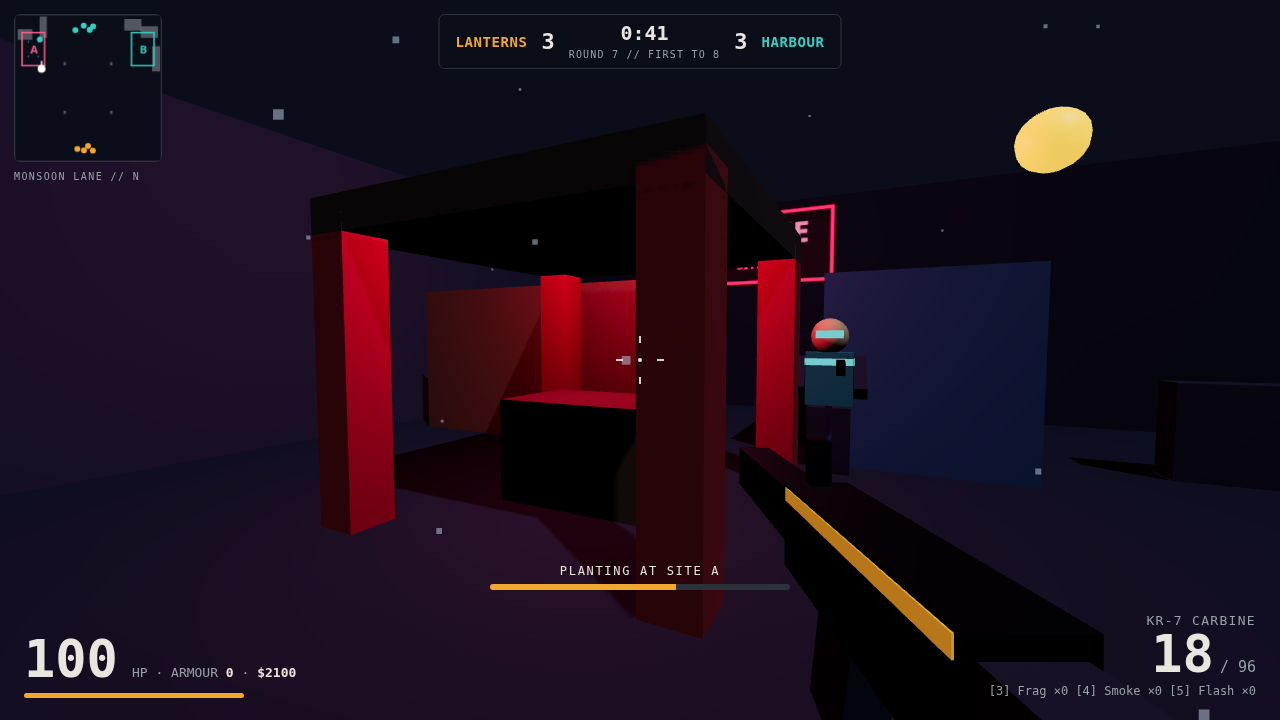
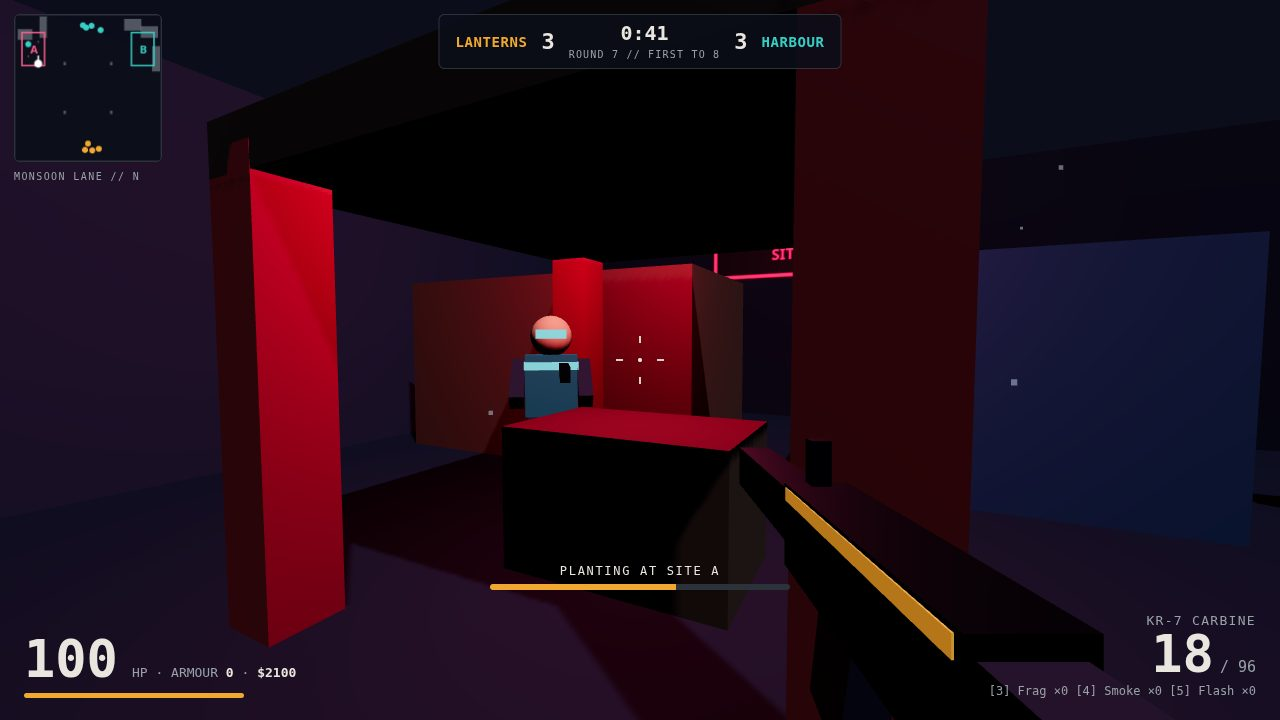
Monsoon Lane v2: fix the round flow found by end-to-end play-testing
- Bots no longer fight during the buy phase, and the vision scan no
  longer treats the player as a target for his own teammates (the team
  used to kill its bomb carrier in the spawn before the round began)
- Overhead boxes (market roof, awnings, shrine roof) no longer act as
  ground-level walls: mid is walkable again and the site A bomb can
  actually be reached and defused
- Waypoints moved onto open ground (siteA, bMid, aHold1, aHold2,
  bHold2 sat inside colliders) and midHold/midHold2 got inbound edges
- Attackers now fetch a dropped bomb instead of pushing a site past it
- Weapon switching and round survival keep exact per-weapon ammo;
  match restart resets money and K/D; nobody shares the player's spawn
- Bots spawn facing the sites; strafing respects collision; a carrier
  with no site picked yet no longer crashes the plant channel
- Screenshots re-rendered from the fixed build (plant shot now stages
  inside site A, combat shot faces the duel)

diff --git a/game/src/bots.js b/game/src/bots.js
@@ -36,7 +36,9 @@ export function createBot(team, name, spawn, isCarrier, rng) {
   const actor = {
     id, name, team, isPlayer: false, isBot: true,
     pos: new THREE.Vector3(spawn.x, 0, spawn.z),
-    yaw: team === 'lanterns' ? 0 : Math.PI, pitch: 0,
+    // Bot yaw follows atan2(dx, dz): PI faces -Z (north), 0 faces +Z (south).
+    // Each team spawns facing the sites, not its own rear wall.
+    yaw: team === 'lanterns' ? Math.PI : 0, pitch: 0,
     hp: 100, armor: 0, alive: true,
     weapon: 'kr7', mag: WEAPONS.kr7.mag, reserve: WEAPONS.kr7.reserve,
     grenades: { frag: 0, smoke: 0, flash: 0 },
@@ -151,41 +153,47 @@ export function stepBots(bots, ctx, dt) {
       ai.thinkAt = now + 0.12 + rng() * 0.08;
       think(bot, ctx);
     }
-    // Vision: scan the player and the enemy bots.
-    const enemies = [player, ...bots.filter((b) => b.team !== bot.team && b !== bot)];
-    let seen = null;
-    let seenD = Infinity;
-    for (const e of enemies) {
-      if (!e.alive) continue;
-      if (canSee(bot, e, map, smokeClouds, now)) {
-        const d = Math.hypot(e.pos.x - bot.pos.x, e.pos.z - bot.pos.z);
-        if (d < seenD) { seenD = d; seen = e; }
+    // Vision, hearing and acting happen only while the round is live: in the
+    // buy phase the teams are still in their spawns and nobody may fight.
+    // The player is a target only for bots on the other team — the scan used
+    // to include the player unconditionally, so teammates shot their own
+    // bomb carrier in the spawn.
+    if (state.phase === 'live') {
+      const enemies = [player, ...bots].filter((a) => a.team !== bot.team && a !== bot);
+      let seen = null;
+      let seenD = Infinity;
+      for (const e of enemies) {
+        if (!e.alive) continue;
+        if (canSee(bot, e, map, smokeClouds, now)) {
+          const d = Math.hypot(e.pos.x - bot.pos.x, e.pos.z - bot.pos.z);
+          if (d < seenD) { seenD = d; seen = e; }
+        }
       }
-    }
-    if (seen) {
-      if (!ai.target) ai.reactAt = now + 0.28 + rng() * 0.25;
-      ai.target = seen;
-      ai.lastSeen = { x: seen.pos.x, z: seen.pos.z, at: now };
-    } else if (ai.target && now - (ai.lastSeen?.at ?? 0) > 2.5) {
-      ai.target = null;
-    }
-    // Hearing: recent gunfire pulls bots toward it.
-    if (!ai.target && state.lastShotAt && now - state.lastShotAt.at < 1.2) {
-      const d = Math.hypot(state.lastShotAt.x - bot.pos.x, state.lastShotAt.z - bot.pos.z);
-      if (d < 26 && ai.role === 'defend') {
-        ai.hold = { x: state.lastShotAt.x, z: state.lastShotAt.z };
+      if (seen) {
+        if (!ai.target) ai.reactAt = now + 0.28 + rng() * 0.25;
+        ai.target = seen;
+        ai.lastSeen = { x: seen.pos.x, z: seen.pos.z, at: now };
+      } else if (ai.target && (!ai.target.alive || now - (ai.lastSeen?.at ?? 0) > 2.5)) {
+        ai.target = null;
       }
-    }
-    // Act.
-    if (ai.target && now >= ai.reactAt) {
-      engage(bot, ai.target, ctx, dt, now);
-    } else if (ai.defuseProgress > 0 || ai.plantProgress > 0) {
-      // channeling: stand still
-    } else if (ai.path.length) {
-      const wp = ai.path[0];
-      if (moveToward(bot, wp.x, wp.z, dt, map)) ai.path.shift();
-    } else if (ai.hold) {
-      moveToward(bot, ai.hold.x, ai.hold.z, dt, map, SPEED * 0.6);
+      // Hearing: recent gunfire pulls bots toward it.
+      if (!ai.target && state.lastShotAt && now - state.lastShotAt.at < 1.2) {
+        const d = Math.hypot(state.lastShotAt.x - bot.pos.x, state.lastShotAt.z - bot.pos.z);
+        if (d < 26 && ai.role === 'defend') {
+          ai.hold = { x: state.lastShotAt.x, z: state.lastShotAt.z };
+        }
+      }
+      // Act.
+      if (ai.target && now >= ai.reactAt) {
+        engage(bot, ai.target, ctx, dt, now);
+      } else if (ai.defuseProgress > 0 || ai.plantProgress > 0) {
+        // channeling: stand still
+      } else if (ai.path.length) {
+        const wp = ai.path[0];
+        if (moveToward(bot, wp.x, wp.z, dt, map)) ai.path.shift();
+      } else if (ai.hold) {
+        moveToward(bot, ai.hold.x, ai.hold.z, dt, map, SPEED * 0.6);
+      }
     }
     // Objective channels.
     channelObjective(bot, ctx, dt, now);
@@ -202,6 +210,22 @@ function think(bot, ctx) {
   if (state.phase !== 'live') return;
   if (ai.role === 'attack') {
     if (!ai.site) ai.site = pickSite(rng);
+    if (state.bomb.state === 'carried') ai.hold = null; // no standing orders while the charge moves
+    if (state.bomb.state === 'dropped' && state.bomb.pos) {
+      // The charge is on the ground: fetch it before pushing a site. The
+      // fetch preempts a route planned before the drop (the hold marks a
+      // bot as already fetching; others turn around at once). A bot already
+      // standing by the charge's nearest waypoint is not re-routed to that
+      // waypoint — it walks the last stretch straight to the charge.
+      const dBomb = Math.hypot(bot.pos.x - state.bomb.pos.x, bot.pos.z - state.bomb.pos.z);
+      const fetching = ai.hold && ai.hold.x === state.bomb.pos.x && ai.hold.z === state.bomb.pos.z;
+      const wpId = nearestWaypoint(state.bomb.pos.x, state.bomb.pos.z);
+      const wp = map.waypoints[wpId];
+      const dWp = Math.hypot(bot.pos.x - wp.x, bot.pos.z - wp.z);
+      if ((!fetching || !ai.path.length) && dBomb > 2 && dWp > 1.2) planRoute(bot, wpId, map);
+      ai.hold = { x: state.bomb.pos.x, z: state.bomb.pos.z };
+      return;
+    }
     const bombPlanted = state.bomb.state === 'planted';
     if (bombPlanted) {
       // After the plant, attackers guard the bomb.
@@ -237,15 +261,17 @@ function think(bot, ctx) {
 }
 
 function engage(bot, target, ctx, dt, now) {
-  const { rng, onBotShot } = ctx;
+  const { rng, onBotShot, map } = ctx;
   const dx = target.pos.x - bot.pos.x;
   const dz = target.pos.z - bot.pos.z;
   const dist = Math.hypot(dx, dz) || 1;
   bot.yaw = Math.atan2(dx, dz);
-  // Strafe a little while firing so the fight moves.
+  // Strafe a little while firing so the fight moves — through collision, so
+  // a strafing bot cannot slide through crates and walls.
   const strafe = Math.sin(now * 1.7 + bot.id.charCodeAt(4)) * 0.5;
   bot.pos.x += Math.cos(bot.yaw) * strafe * dt * 1.4;
   bot.pos.z -= Math.sin(bot.yaw) * strafe * dt * 1.4;
+  resolveMove(bot.pos, 0.38, map.moveBoxes);
   if (now < bot.ai.nextShotAt) return;
   if (bot.ai.burstLeft <= 0) {
     bot.ai.burstLeft = 3 + Math.floor(rng() * 3);
@@ -269,7 +295,8 @@ function channelObjective(bot, ctx, dt, now) {
   // Attackers plant.
   if (ai.carrier && state.bomb.state === 'carried' && state.bomb.carrier === bot.id) {
     const siteId = ai.site;
-    const s = map.sites[siteId];
+    const s = siteId ? map.sites[siteId] : null;
+    if (!s) return; // no site picked yet — the next think assigns one
     const d = Math.hypot(bot.pos.x - s.x, bot.pos.z - s.z);
     if (d < s.r && !ai.target) {
       if (ai.plantProgress === 0) onPlantStart(bot, siteId);

diff --git a/game/src/main.js b/game/src/main.js
@@ -122,6 +122,18 @@ document.addEventListener('keydown', (e) => {
 });
 document.addEventListener('keyup', (e) => keys.delete(e.code));
 
+// Ammunition is kept per weapon: switching away and back restores the exact
+// mag and reserve the weapon had, so a weapon switch is never a free reload.
+const ammoStore = { p9: null, kr7: null, vulture: null, osprey: null };
+function stashAmmo() {
+  ammoStore[playerActor.weapon] = { mag: playerActor.mag, reserve: playerActor.reserve };
+}
+function drawAmmo(key) {
+  const s = ammoStore[key];
+  if (s) { playerActor.mag = s.mag; playerActor.reserve = s.reserve; }
+  else { playerActor.mag = WEAPONS[key].mag; playerActor.reserve = WEAPONS[key].reserve; }
+}
+
 function currentPrimary() {
   return playerActor.ownedPrimary || 'p9';
 }
@@ -138,6 +150,7 @@ function startMatch(team) {
   playerActor.money = ECONOMY.start;
   playerActor.kills = 0;
   playerActor.deaths = 0;
+  playerActor.survived = false;
   startRound();
 }
 
@@ -145,6 +158,12 @@ function restartMatch() {
   state.scores = { lanterns: 0, harbour: 0 };
   state.round = 1;
   state.matchWinner = null;
+  // A fresh match starts on a fresh economy and a clean scorecard, exactly
+  // like startMatch — the old version kept the end-of-match money and K/D.
+  playerActor.money = ECONOMY.start;
+  playerActor.kills = 0;
+  playerActor.deaths = 0;
+  playerActor.survived = false;
   startRound();
 }
 
@@ -162,16 +181,27 @@ function startRound() {
   playerActor.pos = player.state.pos;
   playerActor.hp = 100;
   playerActor.alive = true;
-  if (!playerActor.survived) { playerActor.weapon = 'p9'; playerActor.armor = 0; playerActor.ownedPrimary = null; }
-  playerActor.mag = WEAPONS[playerActor.weapon].mag;
-  playerActor.reserve = WEAPONS[playerActor.weapon].reserve;
+  if (!playerActor.survived) {
+    // The dead start over: sidearm, no armour, full fresh ammunition.
+    playerActor.weapon = 'p9'; playerActor.armor = 0; playerActor.ownedPrimary = null;
+    playerActor.mag = WEAPONS.p9.mag;
+    playerActor.reserve = WEAPONS.p9.reserve;
+    for (const k of Object.keys(ammoStore)) ammoStore[k] = null;
+  }
+  // Survivors keep their weapon, armour and the exact ammunition they
+  // ended the round with — no free refill between rounds.
   playerActor.grenades = { frag: 0, smoke: 0, flash: 0 };
   playerActor.survived = false;
   const enemyTeam = state.playerTeam === 'lanterns' ? 'harbour' : 'lanterns';
-  bots.forEach((b, i) => {
-    const s = map.spawns[b.team][i % 5];
+  const seat = { lanterns: 0, harbour: 0 };
+  bots.forEach((b) => {
+    // Seat each team in its own spawn slots; the player's team leaves slot 0
+    // for the player (the old indexing put a teammate on the player's spot).
+    const idx = b.team === state.playerTeam ? seat[b.team] + 1 : seat[b.team];
+    seat[b.team] += 1;
+    const s = map.spawns[b.team][idx % 5];
     b.pos.set(s.x, 0, s.z);
-    b.yaw = b.team === 'lanterns' ? 0 : Math.PI;
+    b.yaw = b.team === 'lanterns' ? Math.PI : 0;
     b.hp = 100;
     b.alive = true;
     b.mesh.visible = true;
@@ -179,6 +209,7 @@ function startRound() {
     b.ai.hold = null;
     b.ai.target = null;
     b.ai.site = null;
+    b.ai.carrier = false;
     b.ai.plantProgress = 0;
     b.ai.defuseProgress = 0;
     b.ai.blindUntil = 0;
@@ -254,8 +285,10 @@ function buyItem(key) {
   } else if (WEAPONS[key]) {
     if (m >= WEAPONS[key].price) {
       playerActor.money -= WEAPONS[key].price;
+      stashAmmo();
       playerActor.weapon = key;
       playerActor.ownedPrimary = key;
+      ammoStore[key] = { mag: WEAPONS[key].mag, reserve: WEAPONS[key].reserve };
       playerActor.mag = WEAPONS[key].mag;
       playerActor.reserve = WEAPONS[key].reserve;
       audio.click();
@@ -274,9 +307,11 @@ function toggleBuy() {
 
 function selectWeapon(key) {
   if (key === 'p9' || (playerActor.ownedPrimary && key === playerActor.ownedPrimary)) {
-    playerActor.weapon = key;
-    playerActor.mag = WEAPONS[key].mag;
-    playerActor.reserve = WEAPONS[key].reserve;
+    if (key !== playerActor.weapon) {
+      stashAmmo();
+      playerActor.weapon = key;
+      drawAmmo(key);
+    }
     syncHud();
   }
 }
@@ -312,6 +347,8 @@ function shootPlayer() {
   camera.getWorldDirection(shootDir);
   const pellets = w.pellets || 1;
   let anyHit = false;
+  // The raycast target list is built once per shot, not once per pellet.
+  const targets = [...map.shootables, ...bots.flatMap((b) => b.alive ? [b.figure.head, b.figure.torso, b.figure.legL, b.figure.legR] : [])];
   for (let p = 0; p < pellets; p += 1) {
     const dir = shootDir.clone();
     dir.x += (rng() * 2 - 1) * spread;
@@ -319,7 +356,6 @@ function shootPlayer() {
     dir.z += (rng() * 2 - 1) * spread;
     dir.normalize();
     raycaster.set(camera.position, dir);
-    const targets = [...map.shootables, ...bots.flatMap((b) => b.alive ? [b.figure.head, b.figure.torso, b.figure.legL, b.figure.legR] : [])];
     const hit = raycaster.intersectObjects(targets, false)[0];
     const end = hit ? hit.point : camera.position.clone().addScaledVector(dir, 80);
     effects.tracer(camera.position.clone().addScaledVector(dir, 0.6), end);
@@ -688,11 +724,11 @@ function runShot(name) {
     // teammate on the flank, a smoke cloud blooming, a tracer in the air.
     const enemy = bots.find((b) => b.team === 'harbour');
     enemy.pos.set(0.9, 0, 0);
-    enemy.yaw = Math.PI;
+    enemy.yaw = -0.15; // facing the player, so the shot reads as a duel
     enemy.hp = 62;
     const mate = bots.find((b) => b.team === 'lanterns');
     mate.pos.set(-5, 0, 0);
-    mate.yaw = 0.3;
+    mate.yaw = 3.0; // facing up mid, covering the push
     effects.smoke(6, -3, elapsed + 30);
     effects.tracer(new THREE.Vector3(0.3, 1.5, 5.4), new THREE.Vector3(0.9, 1.4, 0));
     hud.addFeed('Ember <span style="color:#f0a830">[KR-7 Carbine]</span> Breaker', 'lanterns');
@@ -707,15 +743,17 @@ function runShot(name) {
     state.round = 7;
     hud.showBuy(false, 0, { armor: 0 });
     buyOpen = false;
-    player.reset(-14, -3, 0.46);
+    // The planter stands inside site A (the old staging stood 5.6 m away,
+    // outside the site radius, while the HUD claimed a plant at site A).
+    player.reset(-15, -5, 0.46);
     playerActor.weapon = 'kr7';
     playerActor.ownedPrimary = 'kr7';
     playerActor.mag = 18;
     playerActor.money = 2100;
     for (let i = 0; i < 20; i += 1) step(FIXED_STEP);
     const enemy = bots.find((b) => b.team === 'harbour');
-    enemy.pos.set(-14.5, 0, -10);
-    enemy.yaw = 0.07;
+    enemy.pos.set(-18, 0, -9);
+    enemy.yaw = 0.64; // facing the planter
     plantProgress = PLANT_SECONDS * 0.62;
     hud.setPlantProgress(0.62, 'PLANTING AT SITE A');
     player.state.yaw = 0.46;

diff --git a/game/src/map.js b/game/src/map.js
@@ -29,21 +29,24 @@ const WAYPOINTS = {
   spawnH: { x: 0, z: -12.5, to: ['midNorth', 'aHold1', 'bHold1'] },
   midSouth: { x: 0, z: 8, to: ['spawnL', 'mid', 'aLong1', 'bLong1'] },
   mid: { x: 0, z: 0, to: ['midSouth', 'midNorth', 'aMid', 'bMid'] },
-  midNorth: { x: 0, z: -6, to: ['mid', 'spawnH', 'aMid', 'bMid'] },
+  midNorth: { x: 0, z: -6, to: ['mid', 'spawnH', 'aMid', 'bMid', 'midHold', 'midHold2'] },
   aLong1: { x: -19, z: 8, to: ['spawnL', 'midSouth', 'aLong2'] },
   aLong2: { x: -19, z: 0, to: ['aLong1', 'aLong3', 'aMid'] },
   aLong3: { x: -19, z: -6, to: ['aLong2', 'siteA', 'aHold2'] },
-  siteA: { x: -16.5, z: -8, to: ['aLong3', 'aHold1', 'aMid'] },
+  // Waypoints must sit on open ground: siteA used to be the shrine altar's
+  // own spot, bMid inside a stall, aHold1/aHold2/bHold2 inside containers —
+  // bots routed there pressed against the box forever and never arrived.
+  siteA: { x: -16.5, z: -5.6, to: ['aLong3', 'aHold1', 'aMid'] },
   bLong1: { x: 19, z: 8, to: ['spawnL', 'midSouth', 'bLong2'] },
   bLong2: { x: 19, z: 0, to: ['bLong1', 'bLong3', 'bMid'] },
   bLong3: { x: 19, z: -6, to: ['bLong2', 'siteB', 'bHold2'] },
   siteB: { x: 16.5, z: -8, to: ['bLong3', 'bHold1', 'bMid'] },
   aMid: { x: -10, z: -4, to: ['mid', 'midNorth', 'aLong2', 'siteA'] },
-  bMid: { x: 10, z: -4, to: ['mid', 'midNorth', 'bLong2', 'siteB'] },
-  aHold1: { x: -13, z: -11.5, to: ['siteA', 'spawnH', 'midNorth'] },
-  aHold2: { x: -18.5, z: -11.5, to: ['aLong3', 'siteA'] },
+  bMid: { x: 10, z: -2.2, to: ['mid', 'midNorth', 'bLong2', 'siteB'] },
+  aHold1: { x: -12, z: -10.5, to: ['siteA', 'spawnH', 'midNorth'] },
+  aHold2: { x: -16, z: -11.5, to: ['aLong3', 'siteA'] },
   bHold1: { x: 13, z: -11.5, to: ['siteB', 'spawnH', 'midNorth'] },
-  bHold2: { x: 18.5, z: -11.5, to: ['bLong3', 'siteB'] },
+  bHold2: { x: 15.5, z: -9.5, to: ['bLong3', 'siteB'] },
   midHold: { x: -3, z: -9.5, to: ['midNorth', 'aHold1'] },
   midHold2: { x: 3, z: -9.5, to: ['midNorth', 'bHold1'] },
 };
@@ -115,7 +118,13 @@ export function hasLOS(ax, ay, az, bx, by, bz, colliders) {
 // Circle (actor) vs 2D AABB resolve, per axis, so actors slide along walls.
 export function resolveMove(pos, radius, moveBoxes) {
   for (const b of moveBoxes) {
-    if (pos.y >= b.h) continue; // low enough to step over? no: all boxes block at ground level
+    // A box blocks only where it crosses the actor's body span (feet to
+    // head). The market roof, the stall awnings and the shrine roof all sit
+    // above head height: treating them as ground walls made mid and site A
+    // unusable — actors were shoved out of the footprint sideways, and the
+    // site A bomb could never be reached to defuse it.
+    if (pos.y + 1.7 <= b.y0) continue;
+    if (pos.y >= b.y0 + b.h) continue;
     if (pos.x + radius > b.x0 && pos.x - radius < b.x1 && pos.z + radius > b.z0 && pos.z - radius < b.z1) {
       const dxl = pos.x + radius - b.x0;
       const dxr = b.x1 - (pos.x - radius);
@@ -180,7 +189,9 @@ export function createMap(scene) {
     const b3 = new THREE.Box3().setFromObject(mesh);
     if (solid) {
       colliders.push(b3);
-      moveBoxes.push({ x0: x - w / 2, x1: x + w / 2, z0: z - d / 2, z1: z + d / 2, h });
+      // y0 is the box's underside: overhead boxes (roofs, awnings) must not
+      // act as ground-level walls — resolveMove tests actors against it.
+      moveBoxes.push({ x0: x - w / 2, x1: x + w / 2, z0: z - d / 2, z1: z + d / 2, h, y0: y - h / 2 });
     }
     shootables.push(mesh);
     return mesh;
@@ -217,7 +228,7 @@ export function createMap(scene) {
     [-6, 1.1, 1.1, -9], [6, 1.1, 1.1, -9], [-2, 1.1, 1.1, -11.5],
     [2, 1.1, 1.1, -11.5], [-19, 1.1, 1.1, 3], [19, 1.1, 1.1, 3],
   ];
-  for (const [cx, ch, cd, cz] of crates) box(cx === -14 || cx === 14 ? 1.2 : 1.2, ch, cd, cx, ch / 2, cz, 'wood');
+  for (const [cx, ch, cd, cz] of crates) box(1.2, ch, cd, cx, ch / 2, cz, 'wood');
   // Containers at the Docks (site B) and a stack at the Shrine (site A).
   box(5.2, 2.6, 2.4, 18.5, 1.3, -11.5, 'container');
   box(5.2, 2.6, 2.4, 13.5, 1.3, -13, 'containerBlue');
